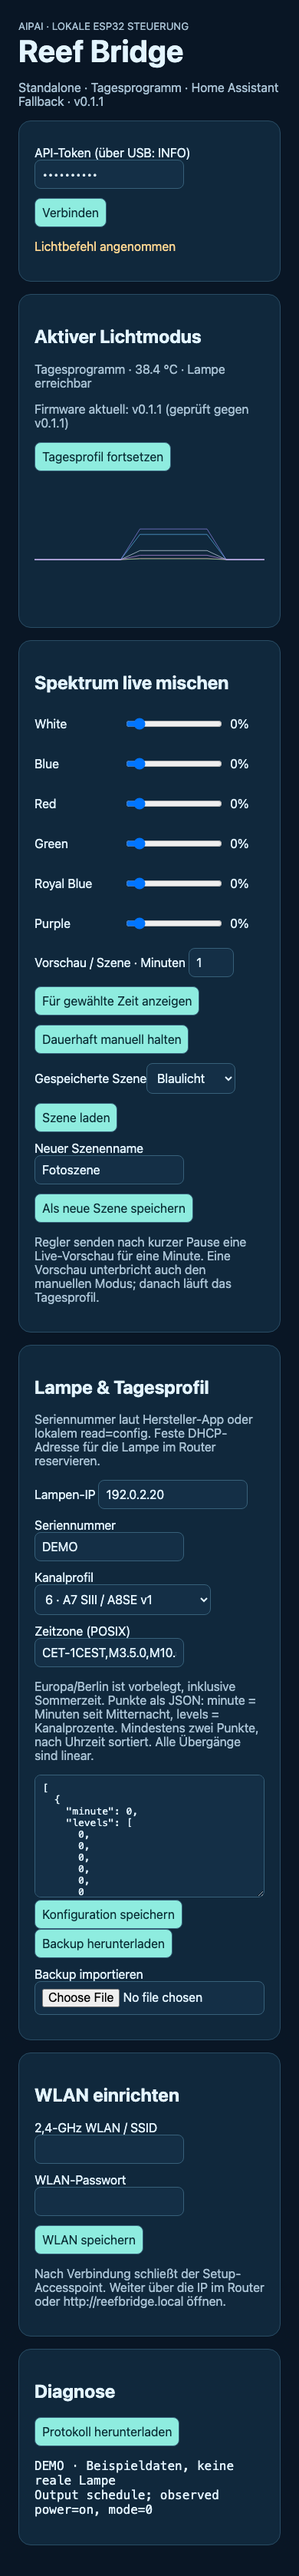
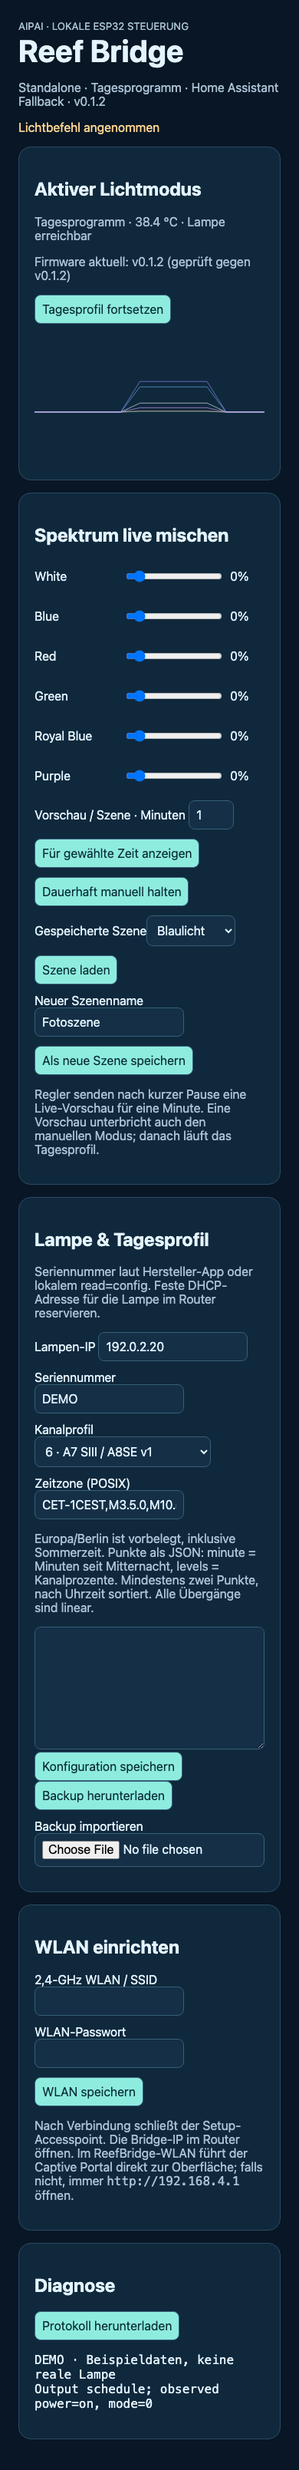
Simplify Reef Bridge local access

diff --git a/reef-bridge/web/index.html b/reef-bridge/web/index.html
@@ -1,18 +1,16 @@
 <!doctype html><html lang="de"><meta charset="utf-8"><meta name="viewport" content="width=device-width,initial-scale=1"><title>AIPAI Reef Bridge</title>
 <style>body{background:#091625;color:#e3f4ff;font:16px system-ui;margin:0}main{max-width:1040px;margin:auto;padding:24px}h1{font-size:2.5rem;margin:0}p,small{color:#a9c2d4}section{background:#10283c;border:1px solid #294c64;border-radius:16px;padding:20px;margin:16px 0}button,input,select,textarea{font:inherit;border-radius:8px;border:1px solid #376079;background:#142f46;color:inherit;padding:9px;box-sizing:border-box}button{background:#8eecdf;color:#092c34;cursor:pointer}label{display:block;margin:12px 0}input,select{max-width:100%}textarea{width:100%;min-height:160px;font:13px monospace}pre{white-space:pre-wrap;overflow-wrap:anywhere}svg{width:100%;height:180px}.row{display:flex;gap:12px;flex-wrap:wrap}.channel{display:grid;grid-template-columns:105px 1fr 45px;align-items:center;gap:12px}.channel input{width:100%}#notice{color:#ffd792}a{color:#8eecdf}</style>
-<main><small>AIPAI · LOKALE ESP32 STEUERUNG</small><h1>Reef Bridge</h1><p>Standalone · Tagesprogramm · Home Assistant Fallback · v0.1.1</p>
-<section><label>API-Token (über USB: INFO)<input id="token" type="password" autocomplete="off"></label><button id="connect">Verbinden</button><p id="notice" role="status"></p></section>
+<main><small>AIPAI · LOKALE ESP32 STEUERUNG</small><h1>Reef Bridge</h1><p>Standalone · Tagesprogramm · Home Assistant Fallback · v0.1.2</p><p id="notice" role="status"></p>
 <section><h2>Aktiver Lichtmodus</h2><p id="status">Noch nicht verbunden</p><p id="update"><small>Update-Prüfung erfolgt nach WLAN-Verbindung und danach alle sechs Stunden.</small></p><button id="resume">Tagesprofil fortsetzen</button><svg id="curve" viewBox="0 0 960 180" aria-label="Tagesprofil"></svg></section>
 <section><h2>Spektrum live mischen</h2><div id="channels"></div><label>Vorschau / Szene · Minuten <input id="minutes" type="number" min="1" max="60" value="1"></label><div class="row"><button id="preview">Für gewählte Zeit anzeigen</button><button id="manual">Dauerhaft manuell halten</button></div><label>Gespeicherte Szene<select id="scenes"></select></label><button id="load-scene">Szene laden</button><label>Neuer Szenenname <input id="scene-name" maxlength="64"></label><button id="save-scene">Als neue Szene speichern</button><p>Regler senden nach kurzer Pause eine Live-Vorschau für eine Minute. Eine Vorschau unterbricht auch den manuellen Modus; danach läuft das Tagesprofil.</p></section>
 <section><h2>Lampe & Tagesprofil</h2><p>Seriennummer laut Hersteller-App oder lokalem read=config. Feste DHCP-Adresse für die Lampe im Router reservieren.</p><label>Lampen-IP <input id="lamp-ip" placeholder="192.168.178.141"></label><label>Seriennummer <input id="serial"></label><label>Kanalprofil <select id="count"><option value="6">6 · A7 SIII / A8SE v1</option><option value="8">8 · A8SE II MAX / MAX Pro</option></select></label><label>Zeitzone (POSIX) <input id="zone" value="CET-1CEST,M3.5.0,M10.5.0/3"></label><p>Europa/Berlin ist vorbelegt, inklusive Sommerzeit. Punkte als JSON: minute = Minuten seit Mitternacht, levels = Kanalprozente. Mindestens zwei Punkte, nach Uhrzeit sortiert. Alle Übergänge sind linear.</p><textarea id="points" spellcheck="false"></textarea><button id="save">Konfiguration speichern</button><button id="export">Backup herunterladen</button><label>Backup importieren <input id="import" type="file" accept="application/json"></label></section>
-<section><h2>WLAN einrichten</h2><label>2,4-GHz WLAN / SSID <input id="ssid"></label><label>WLAN-Passwort <input id="wifi-password" type="password"></label><button id="wifi">WLAN speichern</button><p>Nach Verbindung schließt der Setup-Accesspoint. Weiter über die IP im Router oder http://reefbridge.local öffnen.</p></section>
+<section><h2>WLAN einrichten</h2><label>2,4-GHz WLAN / SSID <input id="ssid"></label><label>WLAN-Passwort <input id="wifi-password" type="password"></label><button id="wifi">WLAN speichern</button><p>Nach Verbindung schließt der Setup-Accesspoint. Die Bridge-IP im Router öffnen. Im ReefBridge-WLAN führt der Captive Portal direkt zur Oberfläche; falls nicht, immer <code>http://192.168.4.1</code> öffnen.</p></section>
 <section><h2>Diagnose</h2><button id="logs">Protokoll herunterladen</button><pre id="log"></pre></section></main>
 <script>
 const $=id=>document.getElementById(id), labels=['White','Blue','Red','Green','Royal Blue','Purple','UV','Warm White'];
 let state=null, levels=[0,0,0,0,0,0], timer, dirty=false, busy=false, queued=false, autoTimer;
-$('token').value=sessionStorage.getItem('reef-token')||'';
 function notice(text){$('notice').textContent=text;}
-async function api(path,body){const response=await fetch('/api/'+path,{method:body?'POST':'GET',headers:{Authorization:'Bearer '+$('token').value,'Content-Type':'application/json'},...(body?{body:JSON.stringify(body)}:{})});const data=await response.json();if(!response.ok)throw Error(data.error||'Anfrage fehlgeschlagen');return data;}
+async function api(path,body){const response=await fetch('/api/'+path,{method:body?'POST':'GET',headers:{'Content-Type':'application/json'},...(body?{body:JSON.stringify(body)}:{})});const data=await response.json();if(!response.ok)throw Error(data.error||'Anfrage fehlgeschlagen');return data;}
 function download(name,data){const a=document.createElement('a'),url=URL.createObjectURL(new Blob([data],{type:'application/json'}));a.href=url;a.download=name;a.click();setTimeout(()=>URL.revokeObjectURL(url),500);}
 function renderLevels(){ $('channels').replaceChildren();levels.forEach((v,i)=>{const label=document.createElement('label');label.className='channel';const title=document.createElement('span');title.textContent=labels[i];const input=document.createElement('input');input.type='range';input.min=0;input.max=100;input.value=v;const out=document.createElement('output');out.textContent=v+'%';input.oninput=()=>{levels[i]=Number(input.value);out.textContent=input.value+'%';clearTimeout(autoTimer);autoTimer=setTimeout(()=>control('preview',60),250);};label.append(title,input,out);$('channels').append(label);});}
 function curve(points){const colors=['#e5f6ff','#65c2ff','#ff819a','#85df9b','#9d92ff','#d9a0ff','#a96aff','#ffc880'];$('curve').replaceChildren();for(let i=0;i<Number($('count').value);i++){const line=document.createElementNS('http://www.w3.org/2000/svg','polyline');line.setAttribute('points',(points||[]).map(p=>(p.minute/1440*960)+','+(170-(p.levels[i]||0)*1.5)).join(' '));line.setAttribute('fill','none');line.setAttribute('stroke',colors[i]);line.setAttribute('stroke-width',2);$('curve').append(line);}}
@@ -21,7 +19,6 @@ async function refresh(){try{state=await api('status');const modes={schedule:'Ta
 async function control(action,seconds){if(busy){queued=true;return;}busy=true;try{await api('control',{action,seconds,levels:[...levels]});notice('Lichtbefehl angenommen');await refresh();}catch(e){notice(e.message);}finally{busy=false;if(queued){queued=false;control('preview',60);}}}
 function configuration(){return{lamp_ip:$('lamp-ip').value.trim(),serial:$('serial').value.trim(),channels:Number($('count').value),timezone:$('zone').value.trim(),points:JSON.parse($('points').value),scenes:state?.config?.scenes||[]};}
 async function save(){try{const c=configuration();await api('config',c);dirty=false;await refresh();notice('Konfiguration gespeichert');}catch(e){notice(e.message);}}
-$('connect').onclick=()=>{sessionStorage.setItem('reef-token',$('token').value);refresh();clearInterval(timer);timer=setInterval(refresh,3000);};
 $('resume').onclick=()=>{clearTimeout(autoTimer);control('resume');};$('preview').onclick=()=>{if($('minutes').reportValidity())control('preview',Number($('minutes').value)*60);};$('manual').onclick=()=>{clearTimeout(autoTimer);control('manual');};$('save').onclick=save;
 ['lamp-ip','serial','count','zone','points'].forEach(id=>$(id).oninput=()=>{dirty=true;});
 $('load-scene').onclick=()=>{const s=state?.config.scenes?.[Number($('scenes').value)];if(s){levels=[...s.levels];renderLevels();}};
@@ -29,5 +26,5 @@ $('save-scene').onclick=async()=>{try{const name=$('scene-name').value.trim();if
 $('wifi').onclick=async()=>{try{await api('wifi',{ssid:$('ssid').value,password:$('wifi-password').value});notice('WLAN gespeichert – Bridge-IP im Router suchen.');}catch(e){notice(e.message);}};
 $('export').onclick=()=>{try{download('reef-bridge-backup.json',JSON.stringify(configuration(),null,2));}catch(e){notice(e.message);}};
 $('import').onchange=async e=>{try{const c=JSON.parse(await e.target.files[0].text());configForm(c);if(state)state.config.scenes=c.scenes||[];dirty=true;notice('Backup geladen – Konfiguration speichern zum Anwenden.');}catch(e){notice(e.message);}};
-$('logs').onclick=()=>download('reef-bridge-diagnose.json',JSON.stringify({version:state?.version,mode:state?.mode,error:state?.error,log:state?.log},null,2));renderLevels();configForm({});
+$('logs').onclick=()=>download('reef-bridge-diagnose.json',JSON.stringify({version:state?.version,mode:state?.mode,error:state?.error,log:state?.log},null,2));renderLevels();configForm({});refresh();timer=setInterval(refresh,3000);
 </script></html>

diff --git a/reef-bridge/installer/index.html b/reef-bridge/installer/index.html
@@ -1,10 +1,10 @@
 <!doctype html><html lang="de"><meta charset="utf-8"><meta name="viewport" content="width=device-width,initial-scale=1"><title>Reef Bridge installieren</title>
 <style>body{background:#091625;color:#e3f4ff;font:18px system-ui;max-width:760px;margin:60px auto;padding:20px;line-height:1.6}h1{color:#8eecdf}a{color:#8eecdf}</style>
 <script type="module" src="https://unpkg.com/esp-web-tools@10.1.1/dist/web/install-button.js?module"></script>
-<h1>AIPAI Reef Bridge</h1><p>ESP32-WROOM / ESP32 DevKit · mindestens 4 MB Flash · Firmware 0.1.1 (experimentell)</p>
+<h1>AIPAI Reef Bridge</h1><p>ESP32-WROOM / ESP32 DevKit · mindestens 4 MB Flash · Firmware 0.1.2 (experimentell)</p>
 <p>ESP32 per USB-Datenkabel verbinden. In Chrome oder Edge unter Windows bzw. macOS öffnen, dann installieren. Safari und Firefox unterstützen Web Serial nicht. ESP32-S2, S3 und C3 benötigen andere Firmware und sind hier noch nicht unterstützt.</p>
 <esp-web-install-button manifest="manifest.json"></esp-web-install-button>
-<p>Bei Bedarf BOOT beim Verbinden gedrückt halten. Das Setup-WLAN verwendet bei einer neuen Installation das Passwort <code>ReefBridge2026!</code>. „Logs & Console“ öffnen und <code>INFO</code> senden, um es zu prüfen und den individuellen API-Token zu notieren.</p>
-<p>Mit dem ReefBridge-WLAN und <code>ReefBridge2026!</code> verbinden und <a href="http://192.168.4.1">192.168.4.1</a> öffnen. API-Token eingeben, WLAN einrichten und die Bridge anschließend im Heimnetz öffnen.</p>
+<p>Bei Bedarf BOOT beim Verbinden gedrückt halten. Das Setup-WLAN verwendet bei einer neuen Installation das Passwort <code>ReefBridge2026!</code>. „Logs & Console“ öffnen und <code>INFO</code> senden, um das Passwort zu prüfen.</p>
+<p>Mit dem ReefBridge-WLAN und <code>ReefBridge2026!</code> verbinden: Das Captive Portal öffnet die Steuerung normalerweise automatisch. Falls nicht, <a href="http://192.168.4.1">192.168.4.1</a> öffnen. Kein API-Token nötig.</p>
 <p>Vor erneutem Flashen Backup in der Bridge herunterladen. „Erase device“ löscht auch WLAN und Programme.</p>
 <p><a href="https://github.com/xsiimonox/aipai-reef-studio/tree/main/reef-bridge">Vollständige Anleitung, Quellcode und Terminal-Installer</a></p></html>

diff --git a/reef-bridge/src/main.cpp b/reef-bridge/src/main.cpp
@@ -1,6 +1,7 @@
 #include <Arduino.h>
 #include <WiFi.h>
 #include <WebServer.h>
+#include <DNSServer.h>
 #include <HTTPClient.h>
 #include <WiFiClientSecure.h>
 #include <Preferences.h>
@@ -11,9 +12,10 @@
 
 // First hardware target: classic ESP32 WROOM / DevKit, 4 MB flash.
 WebServer server(80);
+DNSServer dnsServer;
 Preferences prefs;
 DynamicJsonDocument config(16384);
-String token, apPassword, events[80], lastError;
+String apPassword, events[80], lastError;
 unsigned eventCount = 0;
 uint32_t lastOutput = 0, overrideEnd = 0, lastReconnect = 0, lastUpdateCheck = 0;
 String mode = "schedule";
@@ -30,11 +32,6 @@ void logEvent(String text) {
   time_t now = time(nullptr);
   events[eventCount++ % 80] = String((long)now) + " | " + text;
   Serial.println(text);
-}
-String randomSecret() {
-  char buf[33];
-  for (int i = 0; i < 4; ++i) snprintf(buf + i * 8, 9, "%08lx", (unsigned long)esp_random());
-  return String(buf);
 }
 int channels() { return config["channels"] | 6; }
 int compareVersion(const String& a, const String& b) {
@@ -74,10 +71,6 @@ void saveConfig() {
 void applyClock() {
   String zone = config["timezone"] | "CET-1CEST,M3.5.0,M10.5.0/3";
   configTzTime(zone.c_str(), "pool.ntp.org", "time.cloudflare.com");
-}
-bool auth() {
-  if (server.header("Authorization") == "Bearer " + token) return true;
-  server.send(401, "application/json", "{\"error\":\"API token required\"}"); return false;
 }
 void fail(String text, int status = 400) {
   DynamicJsonDocument doc(512); doc["error"] = text;
@@ -214,22 +207,22 @@ void output() {
 }
 void setup() {
   Serial.begin(115200); prefs.begin("reefbridge", false);
-  token = prefs.getString("token", "");
-  if (token.isEmpty()) { token = randomSecret(); prefs.putString("token", token); }
   apPassword = prefs.getString("ap_pass", "");
   if (apPassword.isEmpty()) { apPassword = defaultApPassword; prefs.putString("ap_pass", apPassword); }
   deserializeJson(config, prefs.getString("config", "{}"));
   WiFi.mode(WIFI_AP_STA);
   String ssid = "ReefBridge-" + String((uint32_t)ESP.getEfuseMac(), HEX);
   WiFi.softAP(ssid.c_str(), apPassword.c_str());
+  dnsServer.start(53, "*", WiFi.softAPIP());
   WiFi.begin(prefs.getString("ssid", "").c_str(), prefs.getString("wifi_pass", "").c_str());
-  Serial.println("Setup SSID: " + ssid + "\nSetup password: " + apPassword + "\nAPI token: " + token);
-  Serial.println("Setup: http://192.168.4.1  |  Serial commands: INFO");
+  Serial.println("Setup SSID: " + ssid + "\nSetup password: " + apPassword);
+  Serial.println("Setup: captive portal / http://192.168.4.1  |  Serial commands: INFO");
   applyClock();
-  const char* headers[] = {"Authorization"}; server.collectHeaders(headers, 1);
   server.on("/", HTTP_GET, [] { server.send_P(200, "text/html; charset=utf-8", (const char*)WEB_UI, sizeof(WEB_UI)); });
+  server.on("/generate_204", HTTP_GET, [] { server.sendHeader("Location", "http://192.168.4.1/", true); server.send(302, "text/plain", ""); });
+  server.on("/hotspot-detect.html", HTTP_GET, [] { server.send_P(200, "text/html; charset=utf-8", (const char*)WEB_UI, sizeof(WEB_UI)); });
+  server.on("/connecttest.txt", HTTP_GET, [] { server.sendHeader("Location", "http://192.168.4.1/", true); server.send(302, "text/plain", ""); });
   server.on("/api/status", HTTP_GET, [] {
-    if (!auth()) return;
     DynamicJsonDocument doc(16384);
     doc["version"] = BRIDGE_VERSION; doc["mode"] = mode; doc["lamp_online"] = lampOnline;
     doc["clock_valid"] = time(nullptr) >= 1700000000; doc["ip"] = WiFi.localIP().toString();
@@ -245,20 +238,20 @@ void setup() {
     String json; serializeJson(doc, json); server.send(200, "application/json", json);
   });
   server.on("/api/wifi", HTTP_POST, [] {
-    if (!auth()) return; DynamicJsonDocument doc(1024); if (!readBody(doc)) return;
+    DynamicJsonDocument doc(1024); if (!readBody(doc)) return;
     String ssid = doc["ssid"] | "", pass = doc["password"] | "";
     if (ssid.isEmpty() || ssid.length()>32 || pass.length()>63) { fail("Invalid WiFi credentials"); return; }
     prefs.putString("ssid", ssid); prefs.putString("wifi_pass", pass);
     server.send(200, "application/json", "{\"ok\":true}"); WiFi.begin(ssid.c_str(), pass.c_str());
   });
   server.on("/api/config", HTTP_POST, [] {
-    if (!auth()) return; DynamicJsonDocument doc(16384); if (!readBody(doc)) return;
+    DynamicJsonDocument doc(16384); if (!readBody(doc)) return;
     if (!validConfig(doc)) { fail("Invalid configuration: sorted points, IP, serial and channel levels required"); return; }
     config.set(doc); saveConfig(); applyClock(); forceOutput = true; logEvent("Configuration saved");
     server.send(200, "application/json", "{\"ok\":true}");
   });
   server.on("/api/control", HTTP_POST, [] {
-    if (!auth()) return; DynamicJsonDocument doc(2048); if (!readBody(doc)) return;
+    DynamicJsonDocument doc(2048); if (!readBody(doc)) return;
     if (config["serial"].isNull()) { fail("Configure a lamp first",409); return; }
     String action = doc["action"] | "";
     if (action == "resume") { mode="schedule"; overrideEnd=0; }
@@ -273,18 +266,28 @@ void setup() {
     }
     forceOutput=true; logEvent("Control: " + mode); server.send(200,"application/json","{\"ok\":true}");
   });
-  server.onNotFound([] { fail("Not found",404); }); server.begin();
+  server.onNotFound([] {
+    // The AP DNS points all captive-portal probes here. Redirect them to the
+    // local dashboard so iOS, Android, macOS and Windows can open it directly.
+    if (WiFi.softAPgetStationNum()) {
+      server.sendHeader("Location", "http://192.168.4.1/", true);
+      server.send(302, "text/plain", "");
+      return;
+    }
+    fail("Not found",404);
+  }); server.begin();
   logEvent("Bridge booted: local schedule; temporary overrides cleared");
 }
 void loop() {
+  dnsServer.processNextRequest();
   server.handleClient();
   if (Serial.available()) { String command=Serial.readStringUntil('\n'); command.trim();
-    if(command=="INFO") Serial.println("AP password: "+apPassword+"\nAPI token: "+token+"\nIP: "+WiFi.localIP().toString());
+    if(command=="INFO") Serial.println("AP password: "+apPassword+"\nIP: "+WiFi.localIP().toString());
   }
   if (WiFi.status()==WL_CONNECTED) {
     static bool mdns=false; if(!mdns) mdns=MDNS.begin("reefbridge");
     // Setup AP shuts down after the first successful station connection.
-    static bool apStopped=false; if(!apStopped) { WiFi.softAPdisconnect(true); apStopped=true; }
+    static bool apStopped=false; if(!apStopped) { dnsServer.stop(); WiFi.softAPdisconnect(true); apStopped=true; }
     if (!lastUpdateCheck || millis() - lastUpdateCheck >= 6UL * 60UL * 60UL * 1000UL) checkForUpdate();
   } else if(millis()-lastReconnect>30000) { lastReconnect=millis(); WiFi.reconnect(); }
   if (forceOutput || millis()-lastOutput>=30000 || (overrideEnd && expired(overrideEnd))) {

diff --git a/reef-bridge/README.md b/reef-bridge/README.md
@@ -1,6 +1,6 @@
 # AIPAI Reef Bridge für ESP32
 
-Eigenständige lokale Steuerung für AIPAI-LED-Lampen – ohne Home Assistant erforderlich. Optional kann Home Assistant über die lokale Bridge-API steuern. Dies ist **Version 0.1.1, ein experimenteller Prototyp**. Kompilieren und simulierte Prüfungen ersetzen keinen Dauertest am echten ESP32 und der Lampe.
+Eigenständige lokale Steuerung für AIPAI-LED-Lampen – ohne Home Assistant erforderlich. Optional kann Home Assistant über die lokale Bridge-API steuern. Dies ist **Version 0.1.2, ein experimenteller Prototyp**. Kompilieren und simulierte Prüfungen ersetzen keinen Dauertest am echten ESP32 und der Lampe.
 
 ![Architektur und Fallback](docs/architecture.svg)
 
@@ -19,7 +19,8 @@ Eigenständige lokale Steuerung für AIPAI-LED-Lampen – ohne Home Assistant er
 - Bis zu 16 gespeicherte Szenen, Regler-Vorschau, zeitbegrenzte Anzeige für 1–60 Minuten, dauerhafter manueller Modus und sofortige Rückkehr zum Tagesprofil.
 - Gerätename/IP, Kanalprofil, Seriennummer-Prüfung, POSIX-Zeitzone mit Sommerzeit, NTP, Temperatur und Diagnoseprotokoll.
 - Programme und WLAN bleiben im Flash; nach Neustart läuft das Tagesprogramm weiter, sobald eine gültige Uhrzeit vorliegt. Temporäre/manuelle Overrides werden beim Neustart aufgehoben.
-- Weboberfläche liegt vollständig in der Firmware; Backup/Import als JSON.
+- Weboberfläche liegt vollständig in der Firmware; Backup/Import als JSON, ohne API-Token.
+- Das ReefBridge-WLAN stellt ein Captive Portal bereit: Nach dem Verbinden öffnet das Betriebssystem die Oberfläche normalerweise direkt. Falls es nicht automatisch erscheint, funktioniert immer `http://192.168.4.1`.
 - Automatische Update-Suche: Nach erfolgreicher WLAN-Verbindung und anschließend alle sechs Stunden prüft die Bridge die veröffentlichte Bridge-Firmware. Ein Hinweis mit Link zum Browser-Installer erscheint im Dashboard; ein Flash-Vorgang geschieht erst nach bewusster Bestätigung.
 - Home Assistant steuert über eine Lease: spätestens 90 Sekunden nach der letzten Bestätigung übernimmt das lokale Tagesprogramm.
 
@@ -38,9 +39,9 @@ Der [Browser-Installer](https://xsiimonox.github.io/aipai-reef-studio/) wird aus
 1. ESP32 per **Datenkabel** verbinden. Bei fehlendem USB-Port eventuell den passenden CP210x-/CH340-Treiber des Boardherstellers installieren.
 2. Im Browser-Installer „Connect“ / „Install“ wählen und den USB-Port auswählen. Nur das Abbild für klassischen ESP32 verwenden.
 3. Bei Verbindungsproblemen BOOT während des Verbindungsaufbaus halten, gegebenenfalls EN/RESET kurz drücken.
-4. Das Setup-WLAN verwendet bei einer **neuen Installation** das Standardpasswort **`ReefBridge2026!`**. Die Konsole mit 115200 Baud öffnen und `INFO` mit Enter senden, falls die Zugangsdaten geprüft werden sollen; sie zeigt außerdem den individuellen API-Token. Den Token lokal aufbewahren und nicht als Screenshot veröffentlichen.
-5. Mit `ReefBridge-…` und dem Passwort `ReefBridge2026!` verbinden. `http://192.168.4.1` öffnen und den API-Token eintragen.
-6. Heim-WLAN unter „WLAN einrichten“ speichern. Nach Verbindung schließt das Setup-WLAN. Bridge-IP im Router suchen oder `http://reefbridge.local` versuchen. Bei mehreren Bridges die IP verwenden.
+4. Das Setup-WLAN verwendet bei einer **neuen Installation** das Standardpasswort **`ReefBridge2026!`**. Die Konsole mit 115200 Baud öffnen und `INFO` mit Enter senden, falls das Passwort geprüft werden soll.
+5. Mit `ReefBridge-…` und dem Passwort `ReefBridge2026!` verbinden. Das Captive Portal öffnet die Oberfläche normalerweise von selbst. Andernfalls im Browser `http://192.168.4.1` aufrufen. Ein API-Token ist nicht erforderlich.
+6. Heim-WLAN unter „WLAN einrichten“ speichern. Nach Verbindung schließt das Setup-WLAN. Die Bridge-IP im Router öffnen; bei mehreren Bridges immer die jeweilige IP verwenden.
 7. Lampen-IP und **korrekte Seriennummer** eintragen. Kanalprofil wählen, Tagespunkte festlegen und speichern. Der Controller prüft vor jedem Schreibzyklus die Seriennummer.
 
 Das Setup-WLAN ist nach Neustart zunächst verfügbar und endet bei erfolgreicher WLAN-Verbindung. Bei falschen WLAN-Daten bleibt es erreichbar; so lässt sich die Konfiguration korrigieren. Das Standardpasswort gilt nur, solange noch kein Passwort im Flash gespeichert ist: Bereits eingerichtete Bridges behalten ihr bisheriges Passwort. Die USB-Konsole liefert Zugangsdaten bei Bedarf erneut über `INFO`.
@@ -88,12 +89,11 @@ homeassistant:
   packages: !include_dir_named packages
 ```
 
-3. In `secrets.yaml` eintragen (IP und Token ersetzen):
+3. In `secrets.yaml` eintragen (IP ersetzen):
 
 ```yaml
 reef_bridge_status_url: http://192.168.178.50/api/status
 reef_bridge_control_url: http://192.168.178.50/api/control
-reef_bridge_authorization: 'Bearer HIER_DEN_API_TOKEN_EINTRAGEN'
 ```
 
 4. HA-Konfiguration prüfen, neu starten. Modussensor und Helfer erscheinen. Das Attribut `update` des Modussensors enthält den automatischen Update-Status. Bei acht Kanälen die HA-Spektrum-Liste auf acht Zahlen erweitern.
@@ -103,7 +103,7 @@ Ein dauerhaft manuell aktivierter Bridge-Modus lehnt HA-Leases mit HTTP 409 ab; 
 
 ## Lokale API
 
-Alle `/api/*`-Aufrufe brauchen `Authorization: Bearer TOKEN`. HTTP nur im vertrauenswürdigen Heimnetz verwenden, keine Portfreigabe. Es gibt kein MQTT und keine Cloudanmeldung.
+Alle `/api/*`-Aufrufe sind ohne Token erreichbar. HTTP daher ausschließlich im vertrauenswürdigen Heimnetz verwenden und niemals per Portfreigabe ins Internet stellen. Es gibt kein MQTT und keine Cloudanmeldung.
 
 | Methode / Pfad | Funktion |
 | --- | --- |
